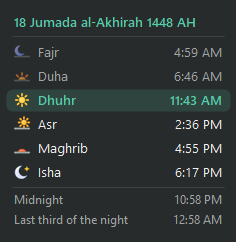
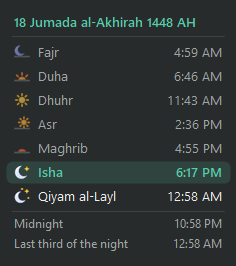
Salaty Reminder 1.7.1: Qiyam al-Layl on the hover card

Changed region(s): [[0.0297, 0.1736, 0.9788, 0.9545], [0.0593, 0.0579, 0.8305, 0.1157]]

diff --git a/src/SalatyReminder/UI/Taskbar/HoverCard.cs b/src/SalatyReminder/UI/Taskbar/HoverCard.cs
@@ -3,7 +3,7 @@ using System.Drawing.Drawing2D;
 namespace SalatyReminder.UI.Taskbar;
 
 /// <summary>
-/// A small card above the widget after the mouse rests on it: today's Hijri date and occasion, the six times,
+/// A small card above the widget after the mouse rests on it: today's Hijri date and occasion, the six times and Qiyam al-Layl,
 /// Imsak and Iftar in Ramadan, and the middle and last third of the night. It never takes focus and hides as soon
 /// as the mouse leaves; clicks pass through to the widget.
 /// </summary>
@@ -67,7 +67,7 @@ sealed class HoverCard : Form
         Show();
     }
 
-    // Rows: Hijri date, the day's label (if any), six times, then Ramadan and night lines when they apply.
+    // Rows: Hijri date, the day's label (if any), six times and Qiyam, then Ramadan and night lines when they apply.
     string DayLabel => app.S.ShowOccasions ? L.DayLabel(Occasions.For(DateOnly.FromDateTime(Clock.Now), app.S.HijriAdjust), Clock.Now.DayOfWeek) : "";
     bool RamadanToday => app.S.RamadanMode && Ramadan.IsRamadan(DateOnly.FromDateTime(Clock.Now), app.S.HijriAdjust);
 
@@ -75,7 +75,7 @@ sealed class HoverCard : Form
     {
         RightToLeft = L.Ar ? RightToLeft.Yes : RightToLeft.No;
         BackColor = new Theme(dark).Surface;
-        float h = 12 + 20 + (DayLabel.Length > 0 ? 18 : 0) + 8 + 6 * 24 + 6;
+        float h = 12 + 20 + (DayLabel.Length > 0 ? 18 : 0) + 8 + 7 * 24 + 6;
         if (RamadanToday) h += 6 + 2 * 20;
         if (app.S.ShowNightTimes) h += 6 + 2 * 20;
         Size = new Size(Px(W), Px(h + 6));
@@ -146,6 +146,15 @@ sealed class HoverCard : Form
             Art.PrayerGlyph(g, p, Box(14, y + 4, 16, 16), dark, past, past ? Color.FromArgb(120, t.Dim) : t.Dim);
             Draw(g, p == Prayer.Sunrise ? L.T("Duha") : L.PrayerName(p, at), isNext ? fRowB : fRow, c, Box(38, y, 110, 24));
             Draw(g, L.Time(at, h24), isNext ? fRowB : fRow, c, Box(130, y, W - 144, 24), far: true);
+            y += 24;
+        }
+
+        // Qiyam al-Layl after Isha, as on the card: a voluntary prayer at the start of the night's last third.
+        {
+            var qt = app.NightAfter(today.Date).LastThird;
+            Art.QiyamGlyph(g, Box(14, y + 4, 16, 16), dark, false, t.Dim);
+            Draw(g, L.T("Qiyam"), fRow, t.Text, Box(38, y, 110, 24));
+            Draw(g, L.Time(qt, h24), fRow, t.Text, Box(130, y, W - 144, 24), far: true);
             y += 24;
         }
 

diff --git a/CHANGELOG.md b/CHANGELOG.md
@@ -3,6 +3,11 @@
 All notable changes to Salaty Reminder are listed here.
 The format follows [Keep a Changelog](https://keepachangelog.com/en/1.1.0/) and versions follow [Semantic Versioning](https://semver.org/).
 
+## [1.7.1] - 2026-11-28
+
+### Fixed
+- The hover card over the widget now lists Qiyam al-Layl after Isha, like the card, so both show the same prayers.
+
 ## [1.7.0] - 2026-11-28
 
 ### Added
@@ -183,6 +188,7 @@ The format follows [Keep a Changelog](https://keepachangelog.com/en/1.1.0/) and 
 - Automatic updates from GitHub Releases with SHA-256 verification.
 - Windows 10 support: the task-button strip is shrunk to make room for the widget.
 
+[1.7.1]: https://github.com/medovanx/salaty-reminder/releases/tag/v1.7.1
 [1.7.0]: https://github.com/medovanx/salaty-reminder/releases/tag/v1.7.0
 [1.6.9]: https://github.com/medovanx/salaty-reminder/releases/tag/v1.6.9
 [1.6.8]: https://github.com/medovanx/salaty-reminder/releases/tag/v1.6.8
